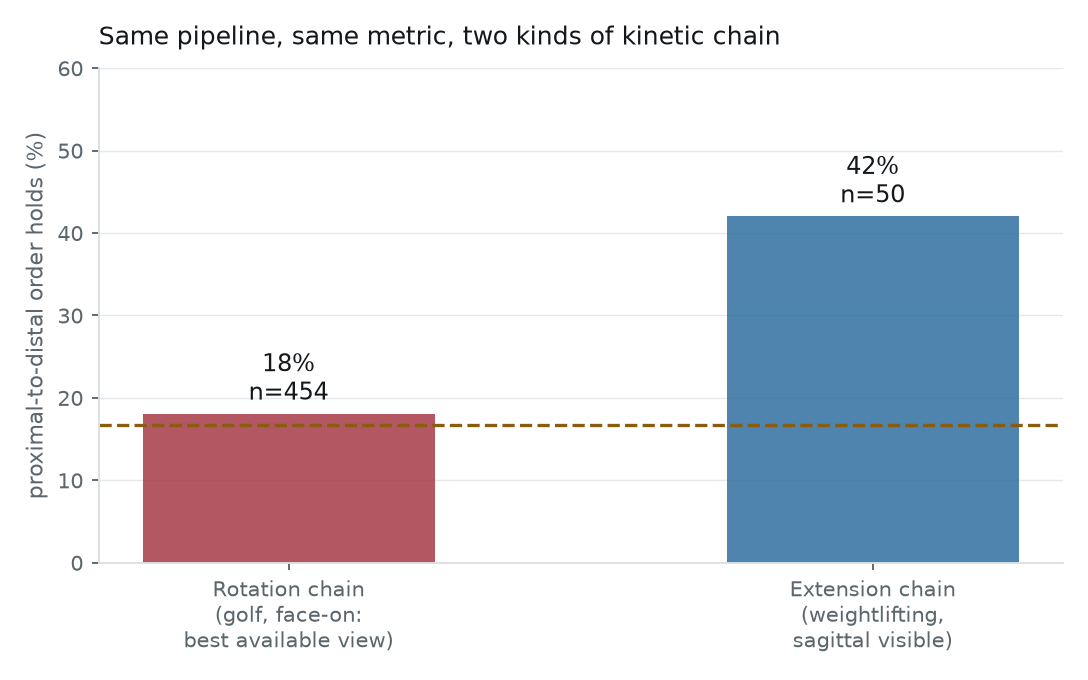
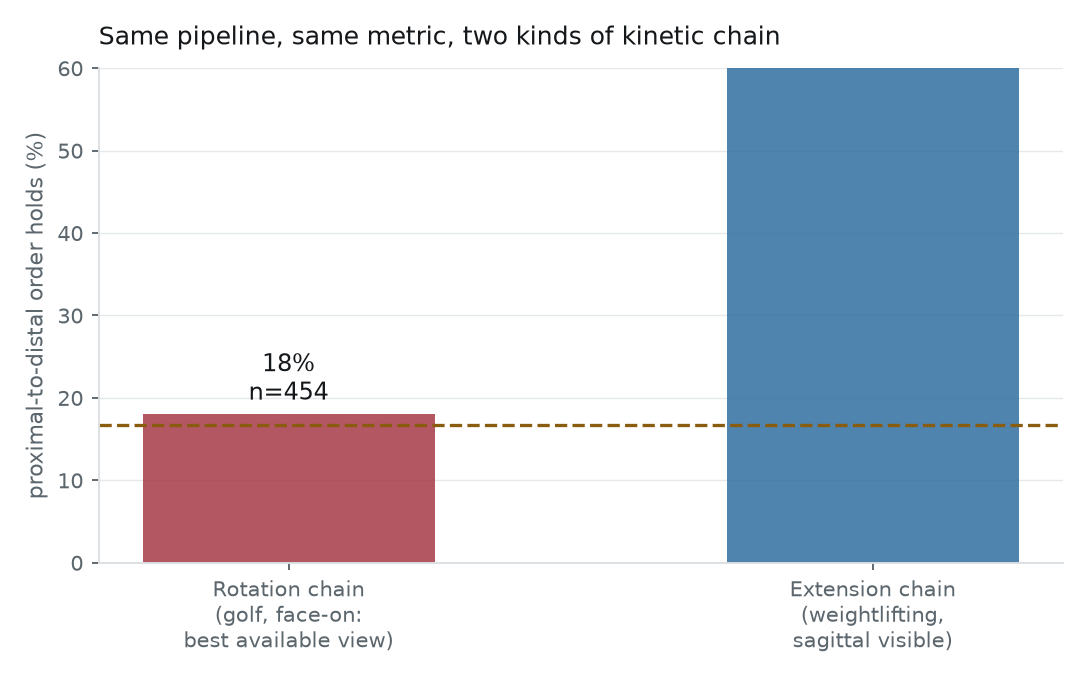
fix(lift): 矢狀面可見度指標取最小值是錯的；視角其實有近兩倍影響
Why:
- 初版結論是「舉重的視角沒有影響」（矢狀面可見 42.0% vs 全部 41.7%）。那個結論來自
  兩個錯誤：門檻 120° 太寬鬆（60 段裡 50 段通過，等於沒分組），以及取髖角**最小值**
  當可見度指標——最小值被單一壞影格帶走。

Changes:
- lift_analysis.sagittal_visibility 改取第 5 百分位；SAGITTAL_VISIBLE_DEG 120 → 90。
- 新增 frontal 對照組，三組並列（all / sagittal_visible / frontal）。
- docs/lift-analysis.md 與 README 更新數字，並保留初版錯誤的修正說明。

Verification:
- pytest 110 項通過
- 11 段的髖角最小值低於 25°，解剖上不可能（完整深蹲軀幹貼大腿約 30–40°）；
  這些片段的角度抖動是其他片段兩倍（二階差分 RMS 3.2 vs 1.5），
  最小值 vs 抖動 r = -0.44，改取第 5 百分位後降到 +0.16
- 修正後：矢狀面可見（<90°, n=17）序列成立 64.7%，偏正面（n=43）32.6%，
  隨機基準 16.7%；排除高抖動片段後 66.7% vs 35.1%
- 拆解顯示側面改善的是「上肢是否最後」（53.5% → 88.2%），
  不是「髖與膝誰先」（21–24% 互換，三組幾乎不變）——後者卡在取樣率，換機位無用
- 偵測 PCE 幾乎不受視角影響（0.778 vs 0.736，n=4/8）：事件用垂直高度定義

Risks:
- 矢狀面可見只有 17 段、偏正面 43 段，組間差異不應當精確值看。
- 偵測的視角對照 n=4/8，完全分不出差別，只能說「沒有證據顯示受影響」。

Changed region(s): [[0.6562, 0.0926, 0.9375, 0.3397]]

diff --git a/scripts/lift_analysis.py b/scripts/lift_analysis.py
@@ -35,14 +35,29 @@ logger = logging.getLogger("lift")
 SPORT = "clean_and_jerk"
 EXPECTED = tuple(name for name, _ in EXTENSION_CHAIN_LINKS)
 
-#: 髖角最小值高於此值時，矢狀面沒有被拍到——彎曲被投影壓扁，伸展量測無效。
-#: 實測：明顯正面的片段髖角範圍只有 169–180°；側面片段可低到 60° 以下。
-SAGITTAL_VISIBLE_DEG = 120.0
+#: 髖角低百分位高於此值時，矢狀面沒有被拍到——彎曲被投影壓扁，伸展量測無效。
+#:
+#: 門檻取 90°：實測分層顯示 <90° 的片段伸展序列成立率 64.7%，>=90° 只有 32.6%
+#: （隨機基準 16.7%），是接近兩倍的差距。初版取 120° 太寬鬆，60 段裡有 50 段通過，
+#: 因此完全看不出視角的影響。
+SAGITTAL_VISIBLE_DEG = 90.0
+
+#: 判定矢狀面可見度時取的百分位，而不是最小值。
+#:
+#: 取最小值會被單一壞影格帶走：實測有 11 段的髖角最小值低於 25°，那在解剖上不可能
+#: （完整深蹲時軀幹貼大腿約 30–40°），而那些片段的角度抖動是其他片段的兩倍
+#: （二階差分 RMS 3.2 vs 1.5，與最小值的相關性 r = −0.44）。改取第 5 百分位後
+#: 與抖動的相關性降到 +0.16。
+VISIBILITY_PERCENTILE = 5.0
 
 
 def sagittal_visibility(clip) -> float:
-    """該片段的髖角最小值（度）。越小代表越看得見前後彎曲，即越接近側面機位。"""
-    return float(np.degrees(clip.signals().signals["hip_angle"].min()))
+    """該片段髖角的低百分位（度）。越小代表越看得見前後彎曲，即越接近側面機位。
+
+    **不取最小值**——最小值對單一壞影格極度敏感，見 :data:`VISIBILITY_PERCENTILE`。
+    """
+    angles = np.degrees(clip.signals().signals["hip_angle"])
+    return float(np.percentile(angles, VISIBILITY_PERCENTILE))
 
 
 def main() -> int:
@@ -72,13 +87,15 @@ def main() -> int:
     side = visibility < SAGITTAL_VISIBLE_DEG
     results["viewpoint"] = {
         "threshold_deg": SAGITTAL_VISIBLE_DEG,
-        "median_hip_min_deg": float(np.median(visibility)),
+        "percentile": VISIBILITY_PERCENTILE,
+        "median_hip_angle_deg": float(np.median(visibility)),
         "sagittal_visible": int(side.sum()),
         "total": len(clips),
     }
     logger.info(
-        "矢狀面可見（髖角最小 <%.0f°）：%d / %d 段，中位 %.0f°",
-        SAGITTAL_VISIBLE_DEG, side.sum(), len(clips), np.median(visibility),
+        "矢狀面可見（髖角第 %.0f 百分位 <%.0f°）：%d / %d 段，中位 %.0f°",
+        VISIBILITY_PERCENTILE, SAGITTAL_VISIBLE_DEG, side.sum(),
+        len(clips), np.median(visibility),
     )
 
     # ---------------------------------------------------------------- 偵測表現
@@ -110,11 +127,17 @@ def main() -> int:
     }
 
     # ------------------------------------------------- 伸展型動力鏈（無約束量測）
-    for scope, only_side in (("all", False), ("sagittal_visible", True)):
+    for scope, only_side in (("all", False), ("sagittal_visible", True), ("frontal", None)):
         orders: dict[str, int] = {}
         widths = {name: [] for name, _ in EXTENSION_CHAIN_LINKS}
-        subset = [c for c, v in zip(clips, visibility)
-                  if not only_side or v < SAGITTAL_VISIBLE_DEG]
+        if only_side is None:            # 對照組：矢狀面看不清楚的那一批
+            subset = [c for c, v in zip(clips, visibility) if v >= SAGITTAL_VISIBLE_DEG]
+        elif only_side:
+            subset = [c for c, v in zip(clips, visibility) if v < SAGITTAL_VISIBLE_DEG]
+        else:
+            subset = list(clips)
+        if not subset:
+            continue
         for clip in subset:
             signals = clip.signals()
             lo = clip.events.get("clean_liftoff", 0)

diff --git a/docs/lift-analysis.md b/docs/lift-analysis.md
@@ -1,15 +1,17 @@
 # 舉重（挺舉）動力鏈分析
 
-- Date: 2026-08-17
+- Date: 2026-08-19（2026-08-19 修正矢狀面可見度指標與門檻）
 - Model: `runs/lift/model.pt`（`clean_and_jerk` 單運動訓練，48 段訓練 / 12 段驗證）
 - Data: Penn Action `clean_and_jerk`，88 段中讀入 60 段
 - Reproduce: `python scripts/lift_analysis.py --checkpoint runs/lift/model.pt`
 
 ## 一句話結論
 
-**伸展型動力鏈量得出來，旋轉型量不出來。** 同一套流程、同一個指標，舉重的
-髖→膝→上肢序列成立率是 **42%**（隨機基準 16.7%），而高爾夫在最好的機位下只有
-18%——與隨機分不出來。差別不在模型，在**量測用的幾何量**。
+**伸展型動力鏈量得出來，旋轉型量不出來；而且伸展型需要側面機位。**
+
+同一套流程、同一個指標：舉重的髖→膝→上肢序列成立率整體 **42%**，其中矢狀面拍得清楚的
+片段 **64.7%**、偏正面的只有 **32.6%**（隨機基準 16.7%）。高爾夫在最好的機位下只有
+18%——與隨機分不出來。差別不在模型，在**量測用的幾何量**與**機位**。
 
 ![兩種動力鏈的可測性](figures/chain_comparison.png)
 
@@ -73,15 +75,41 @@
 實測：明顯正面的片段（如 `penn_action/0703`）髖角範圍只剩 **169–180°**，
 等於完全量不到彎曲；側面片段可低到 60° 以下。
 
-以髖角最小值當「矢狀面可見度」的指標：
+以髖角的**第 5 百分位**當「矢狀面可見度」的指標（不是最小值，理由見下）：
 
 | | 值 |
 |---|---|
-| 60 段的髖角最小值中位數 | 80° |
-| 矢狀面可見（< 120°）的段數 | 50 / 60 |
+| 60 段的中位數 | 112° |
+| 矢狀面可見（< 90°） | 17 / 60 |
+| 偏正面（≥ 90°） | 43 / 60 |
 
-Penn Action 的挺舉片段以正面與 3/4 為主（88 段目視檢查過），但多數仍拍得到足夠的
-彎曲。純側面的片段不多，這是資料限制。
+Penn Action 的挺舉片段以正面與 3/4 為主（88 段目視檢查過），純側面只有約四分之一。
+這是資料限制，也讓下面的分層每組樣本偏少。
+
+### 視角的影響：接近兩倍
+
+| 機位 | n | 序列成立率 |
+|---|---|---|
+| 矢狀面可見（< 90°） | 17 | **64.7%** |
+| 偏正面（≥ 90°） | 43 | 32.6% |
+| 隨機基準 | — | 16.7% |
+
+排除角度抖動偏大的片段後（52 段）差距一樣：66.7% vs 35.1%。
+
+對照之下，**偵測表現幾乎不受視角影響**：矢狀面可見的 PCE 0.778、偏正面 0.736
+（驗證集只有 12 段，分不出差別）。這符合預期——事件是用**垂直高度**定義的
+（手腕高度、踝相對骨盆的高度），垂直量在任何水平機位下都看得到；
+只有需要矢狀面**夾角**的序列量測會受影響。
+
+> **兩處修正（2026-08-19）。** 初版把門檻定在 120°、且取髖角的**最小值**，
+> 結論是「視角沒有影響」（42.0% vs 41.7%）。兩者都錯：
+>
+> 1. **門檻太寬鬆**——120° 讓 60 段裡有 50 段通過，等於沒有分組。
+> 2. **取最小值被雜訊帶走**——有 11 段的髖角最小值低於 25°，那在解剖上不可能
+>    （完整深蹲時軀幹貼大腿約 30–40°）；這些片段的角度抖動是其他片段的兩倍
+>    （二階差分 RMS 3.2 vs 1.5），最小值與抖動的相關性 `r = −0.44`。
+>    所以「最側面」那一組其實是「姿態最吵」那一組，分層結果因此非單調
+>    （<45° 只有 25%，45–75° 有 60%）。改取第 5 百分位後與抖動的相關性降到 `+0.16`。
 
 ## 1. 偵測表現（vs 弱標註）
 
@@ -131,23 +159,28 @@ Penn Action 的挺舉片段以正面與 3/4 為主（88 段目視檢查過），
 
 | 量測範圍 | n | 髖→膝→上肢成立率 |
 |---|---|---|
-| 全部片段 | 60 | **41.7%** |
-| 矢狀面可見 | 50 | **42.0%** |
+| 全部片段 | 60 | 41.7% |
+| **矢狀面可見（< 90°）** | 17 | **64.7%** |
+| 偏正面（≥ 90°） | 43 | 32.6% |
 | 隨機基準 | — | 16.7% |
 
-實際觀察到的排列（矢狀面可見的 50 段）：
+實際觀察到的排列（全部 60 段）：
 
-| 排列 | 比例 |
-|---|---|
-| hip → knee → arm | 42.0% |
-| knee → hip → arm | 24.0% |
-| arm → hip → knee | 16.0% |
-| hip → arm → knee | 14.0% |
-| knee → arm → hip | 2.0% |
-| arm → knee → hip | 2.0% |
+| 排列 | 全部 60 段 | 矢狀面可見 17 段 | 偏正面 43 段 |
+|---|---|---|---|
+| **hip → knee → arm** | **41.7%** | **64.7%** | **32.6%** |
+| knee → hip → arm | 21.7% | 23.5% | 20.9% |
+| hip → arm → knee | 16.7% | 5.9% | 20.9% |
+| arm → hip → knee | 16.7% | 5.9% | 20.9% |
+| knee → arm → hip | 1.7% | 0% | 2.3% |
+| arm → knee → hip | 1.7% | 0% | 2.3% |
 
-**上肢排在最後的比例是 66%**（前兩列相加）。髖與膝互換佔 24%，那是兩個時間相近的
-事件在 30 fps 下分不出先後——與投球遇到的解析度限制同一類。
+**上肢排在最後的比例**：全部 63.4%、矢狀面可見 **88.2%**、偏正面 53.5%（前兩列相加）。
+髖與膝互換在三組都佔 21–24%，那是兩個時間相近的事件在 30 fps 下分不出先後——
+與投球遇到的解析度限制同一類，**換機位解決不了**。
+
+換句話說，側面機位改善的是「上肢是不是最後」這件事（53.5% → 88.2%），
+不是「髖與膝誰先」（幾乎不變）。前者靠的是矢狀面看得到伸展，後者卡在取樣率。
 
 ![單次挺舉的伸展曲線](figures/lift_trace.png)
 
@@ -177,7 +210,8 @@ Penn Action 的挺舉片段以正面與 3/4 為主（88 段目視檢查過），
   規則假設了完整的深蹲接槓，遇到 power clean 或不下蹲的動作就抓錯。
 - 驗證集只有 12 段，偵測分數的誤差很大。
 - 沒有真人事件標註可以驗證規則本身是否正確。
-- 沒有真正的側面專拍資料——Penn Action 以正面與 3/4 為主。
+- 沒有真正的側面專拍資料——Penn Action 以正面與 3/4 為主，矢狀面清楚的只有 17 段。
+  視角分層的每組樣本因此偏少（17 vs 43），組間差異不應當精確值看。
 - 踝關節那一環量不到（canonical 13 點沒有腳趾，測不到蹠屈），所以量的是
   「髖→膝→上肢」而不是完整的三重伸展。
 - 沒有槓鈴關鍵點，一律以手腕代理；握距與手腕角度的變化會混進來。

diff --git a/README.md b/README.md
@@ -334,11 +334,17 @@ PCE 看不出實際誤差幾格，直接看誤差分布更清楚（第 1 折 349
 | 動力鏈 | 量測用的幾何量 | 近端→遠端成立率 |
 |---|---|---|
 | 旋轉（高爾夫 face-on，最好的機位） | 髖線／肩線的**方向角** | 18%（n=454） |
-| **伸展（舉重，矢狀面可見）** | 髖／膝的**三點夾角** | **42%**（n=50） |
+| **伸展（舉重，矢狀面可見）** | 髖／膝的**三點夾角** | **64.7%**（n=17） |
+| 伸展（舉重，偏正面） | 同上 | 32.6%（n=43） |
 | 隨機基準 | | 16.7% |
 
 預測成立。**機位需求也剛好相反**：旋轉在水平面，要正面／45°；伸展在矢狀面，
-要側面——正面拍的舉重片段髖角範圍只剩 169–180°，彎曲被完全壓扁。
+**要側面**——正面拍的舉重片段髖角範圍只剩 169–180°，彎曲被完全壓扁。
+舉重用側面拍的序列成立率是偏正面的兩倍（64.7% vs 32.6%）。
+
+但**偵測表現幾乎不受視角影響**（0.778 vs 0.736，n=4/8）：事件是用垂直高度定義的
+（手腕高度、踝相對骨盆的高度），垂直量在任何水平機位下都看得到；只有需要矢狀面
+**夾角**的序列量測才受影響。
 
 另一個架構上的發現：舉重的 9 個事件裡只有 **3 個**用得上 canonical 詞彙
 （其他運動用 8–10 個）。canonical 詞彙是從投擲／擊球歸納出來的，
